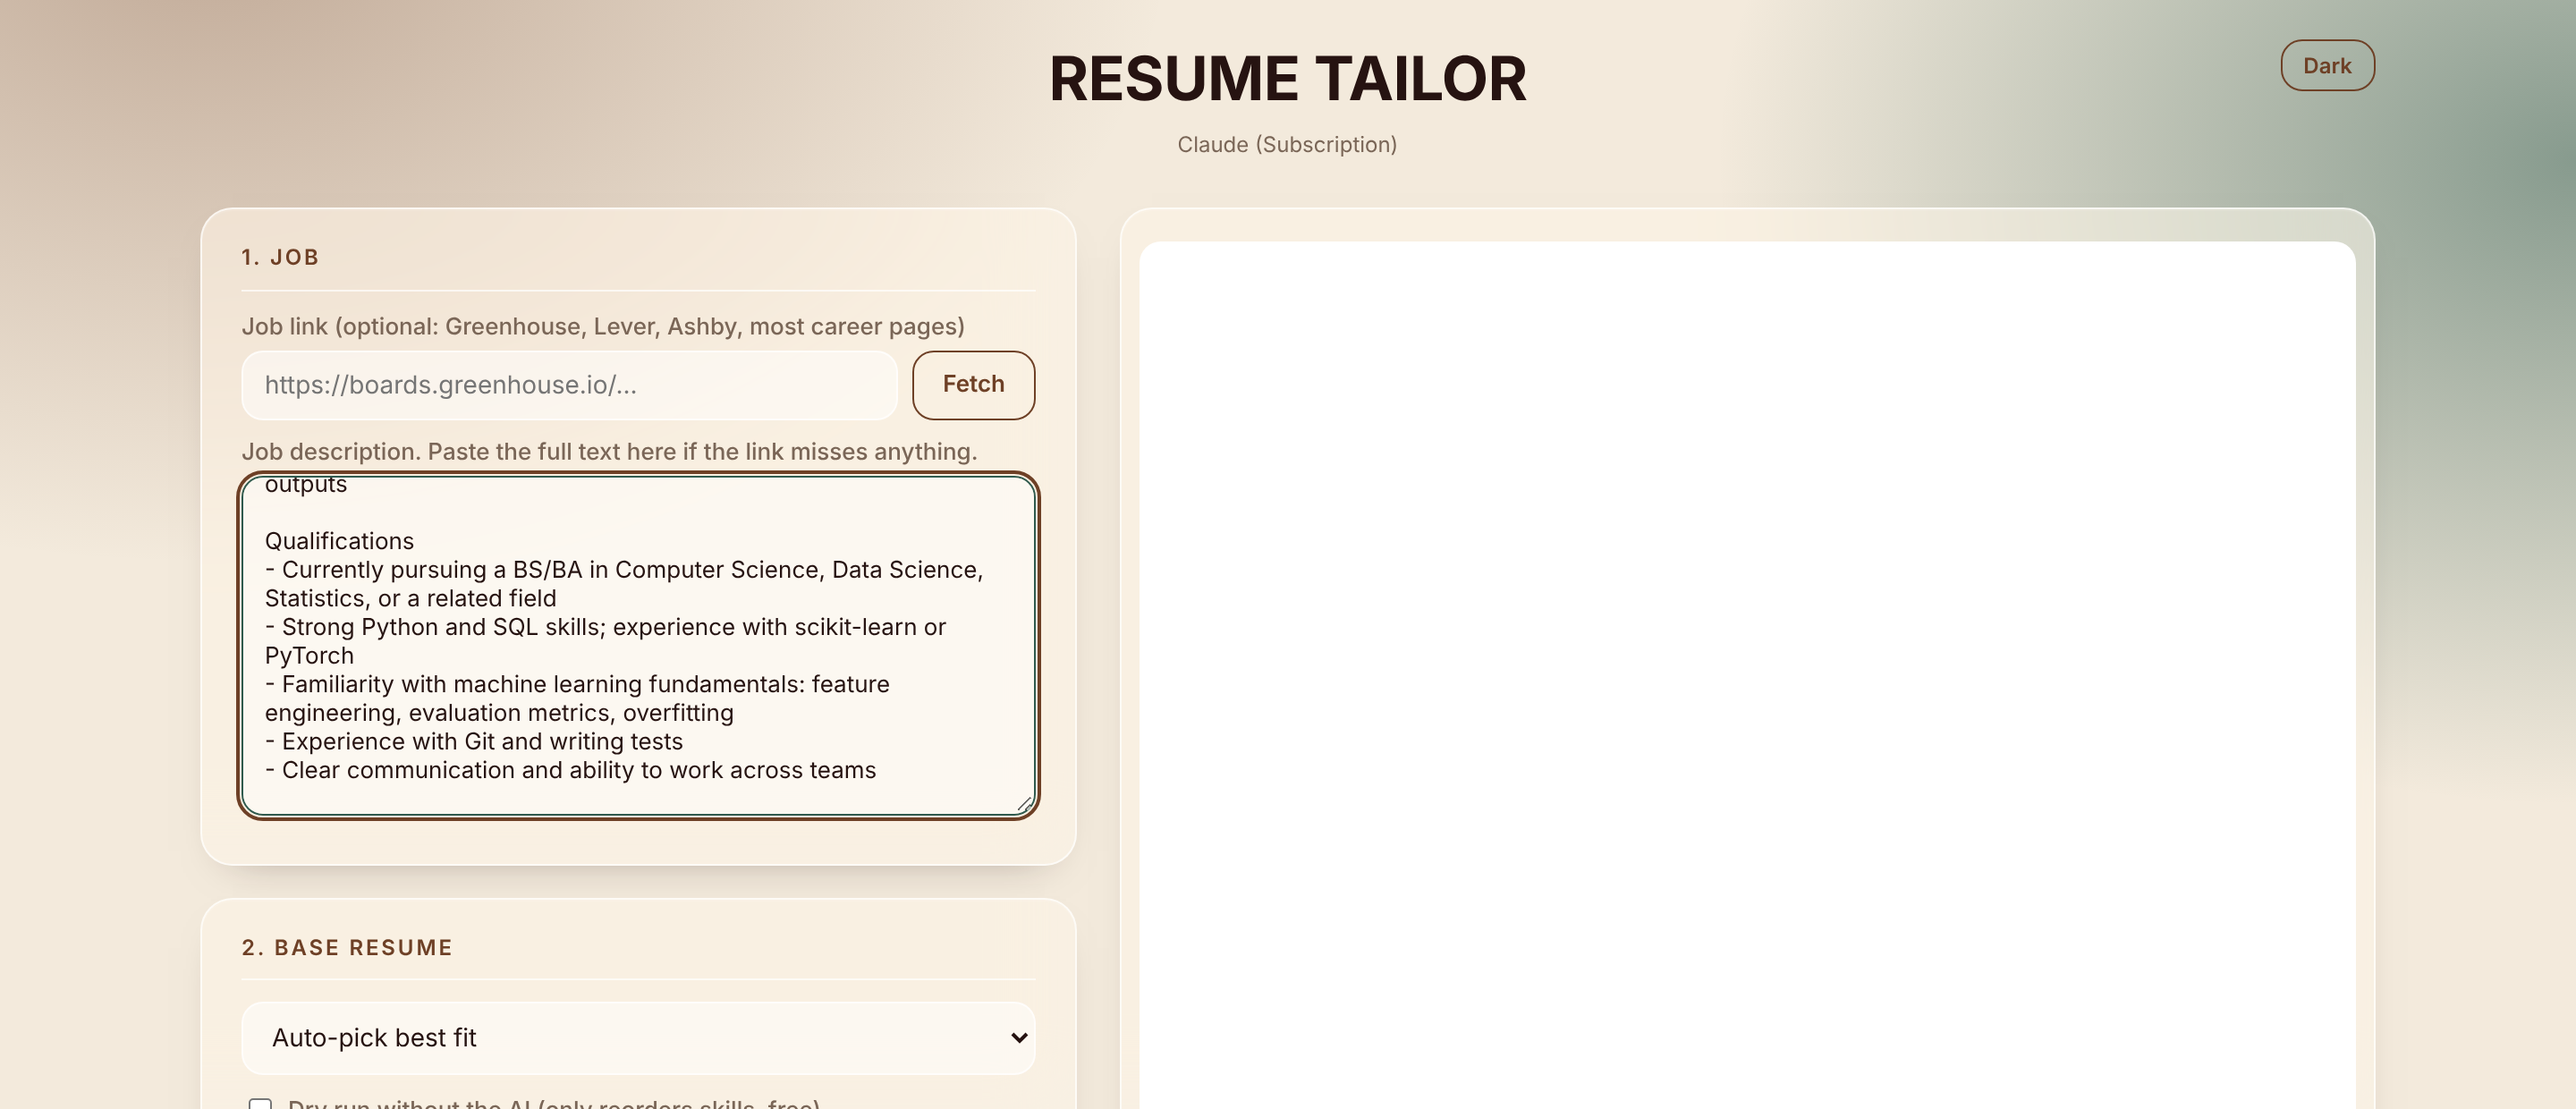
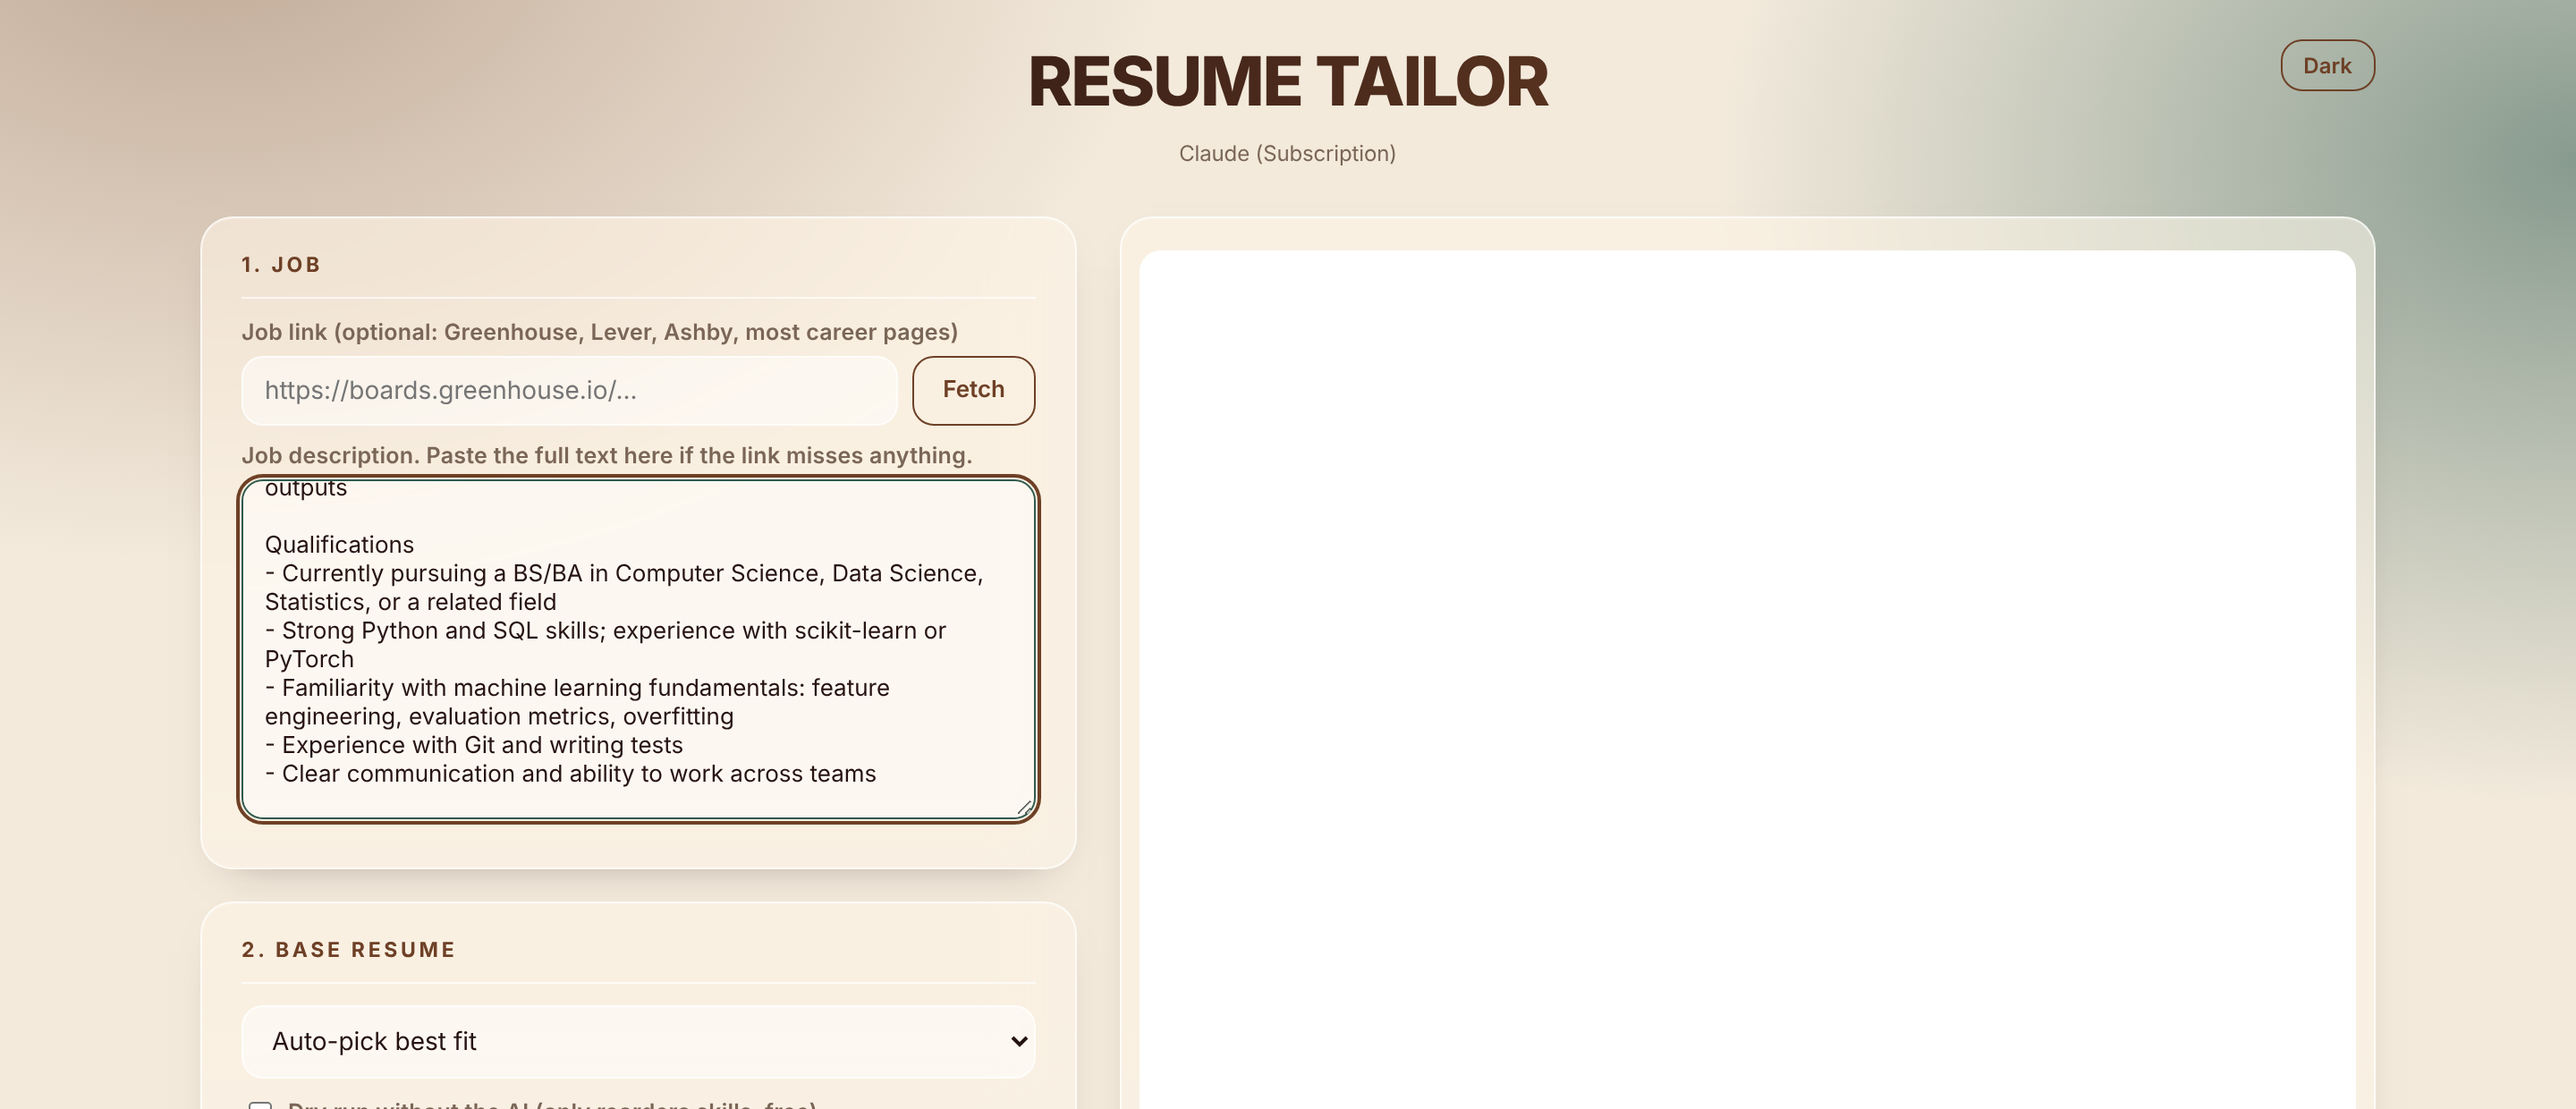
Name Movie Genre models and fix cutoff wording; Plus Jakarta Sans UI; refresh screenshots
Claude-Session: https://claude.ai/code/session_012cXKM8fq69mSZabLRgK94C

diff --git a/static/index.html b/static/index.html
@@ -5,27 +5,27 @@
 <meta name="viewport" content="width=device-width, initial-scale=1">
 <title>Resume Tailor</title>
 <link rel="preconnect" href="https://fonts.googleapis.com">
-<link href="https://fonts.googleapis.com/css2?family=Inter:wght@400;500;600;700&display=swap" rel="stylesheet">
+<link href="https://fonts.googleapis.com/css2?family=Plus+Jakarta+Sans:wght@400;500;600;700;800&display=swap" rel="stylesheet">
 <style>
   /* Palette: espresso #261311, copper #c4895a, parchment #f1e6d6, forest #1f3b34 */
   :root { --bg:#261311; --paper:#321b17; --card:#321b17; --ink:#f1e6d6; --mute:#b5a392; --line:#503630; --acc:#c4895a; --onacc:#261311; --blush:#c4895a; --sage:#2f5a4e; --mist:#3d2420;
           --hover:#d9a074; --okbd:#5f9a85; --warnbd:#c4895a; --ok:#94c7ad; --warn:#e3a574; --bad:#ff9f90; --add:#213a33; --del:#4a2824; --shadow:0 18px 40px -20px rgba(0,0,0,.75);
-          --ui:"Inter",system-ui,-apple-system,"Segoe UI",Roboto,sans-serif; --text:var(--ui); --display:var(--ui); --glass:rgba(50,27,23,.52); --glass-line:rgba(241,230,214,.14); --field:rgba(38,19,17,.45); color-scheme:dark; }
+          --ui:"Plus Jakarta Sans",system-ui,-apple-system,"Segoe UI",Roboto,sans-serif; --text:var(--ui); --display:var(--ui); --glass:rgba(50,27,23,.52); --glass-line:rgba(241,230,214,.14); --field:rgba(38,19,17,.45); color-scheme:dark; }
   @media (prefers-color-scheme: light) { :root:not([data-theme=dark]) { --bg:#f3eadc; --paper:#fbf5ea; --card:#fbf5ea; --ink:#261311; --mute:#7a6657; --line:#d9c8b0; --acc:#6e4026; --onacc:#f7eee0; --blush:#6e4026; --sage:#2f5a4e; --mist:#eadbc6; --hover:#4f2b17; --okbd:#2f5a4e; --warnbd:#b87a4b; --ok:#2f5a4e; --warn:#9a5532; --bad:#9e3a32; --add:#dbe8e1; --del:#f1d9d2; --shadow:0 10px 24px -18px rgba(38,19,17,.5); --glass:rgba(251,245,234,.58); --glass-line:rgba(255,255,255,.7); --field:rgba(255,255,255,.5); color-scheme:light; } }
   :root[data-theme=light] { --bg:#f3eadc; --paper:#fbf5ea; --card:#fbf5ea; --ink:#261311; --mute:#7a6657; --line:#d9c8b0; --acc:#6e4026; --onacc:#f7eee0; --blush:#6e4026; --sage:#2f5a4e; --mist:#eadbc6; --hover:#4f2b17; --okbd:#2f5a4e; --warnbd:#b87a4b; --ok:#2f5a4e; --warn:#9a5532; --bad:#9e3a32; --add:#dbe8e1; --del:#f1d9d2; --shadow:0 10px 24px -18px rgba(38,19,17,.5); --glass:rgba(251,245,234,.58); --glass-line:rgba(255,255,255,.7); --field:rgba(255,255,255,.5); color-scheme:light; }
   * { box-sizing:border-box; }
-  body { margin:0; min-height:100vh; color:var(--ink); font:15px/1.6 var(--text); -webkit-font-smoothing:antialiased; background:
+  body { margin:0; min-height:100vh; color:var(--ink); font:400 15px/1.65 var(--text); letter-spacing:-.005em; font-feature-settings:'ss01','cv11'; -webkit-font-smoothing:antialiased; background:
     radial-gradient(900px 600px at 8% -5%, color-mix(in srgb, var(--acc) 38%, transparent), transparent 60%),
     radial-gradient(800px 600px at 100% 10%, color-mix(in srgb, var(--sage) 55%, transparent), transparent 60%),
     radial-gradient(700px 500px at 50% 110%, color-mix(in srgb, var(--acc) 22%, transparent), transparent 60%), var(--bg); background-attachment:fixed; }
   header { padding:26px 32px 14px; text-align:center; max-width:1280px; margin:0 auto; }
-  h1 { font:700 clamp(24px,3.2vw,34px)/1.1 var(--ui); letter-spacing:-.01em; margin:0; color:var(--ink); }  .sub { color:var(--mute); font:400 13px var(--ui); } #status { display:block; margin-top:10px; font-size:12px; }
+  h1 { font:800 clamp(26px,3.4vw,38px)/1.1 var(--ui); letter-spacing:-.03em; margin:0; color:var(--ink); background:linear-gradient(100deg,var(--ink) 15%,var(--acc) 85%); -webkit-background-clip:text; background-clip:text; -webkit-text-fill-color:transparent; }  .sub { color:var(--mute); font:400 13px var(--ui); } #status { display:block; margin-top:10px; font-size:12px; }
   main { display:grid; grid-template-columns:minmax(340px,490px) 1fr; gap:24px; padding:14px 32px 56px; align-items:start; max-width:1280px; margin:0 auto; }
   @media (max-width:980px) { main { grid-template-columns:1fr; padding:12px 16px 40px; } }
   .card { background:var(--glass); border:1px solid var(--glass-line); border-radius:18px; padding:20px 22px; margin-bottom:18px; box-shadow:var(--shadow), inset 0 1px 0 rgba(255,255,255,.12); position:relative; -webkit-backdrop-filter:blur(22px) saturate(140%); backdrop-filter:blur(22px) saturate(140%); }
-  h2 { font:600 12px/1.2 var(--ui); letter-spacing:.12em; text-transform:uppercase; color:var(--acc); margin:0 0 12px; padding-bottom:10px; border-bottom:1px solid var(--glass-line); }
+  h2 { font:700 11.5px/1.2 var(--ui); letter-spacing:.16em; text-transform:uppercase; color:var(--acc); margin:0 0 12px; padding-bottom:10px; border-bottom:1px solid var(--glass-line); }
   h2 .sub { font-family:var(--ui); text-transform:none; letter-spacing:0; font-size:12px; }
-  label { font:500 13px var(--ui); color:var(--mute); display:block; margin:10px 0 5px; }
+  label { font:600 12.5px var(--ui); letter-spacing:.01em; color:var(--mute); display:block; margin:10px 0 5px; }
   input[type=text], textarea, select { width:100%; padding:10px 12px; border:1px solid var(--glass-line); border-radius:12px; background:var(--field); color:var(--ink); font:14px var(--text); }
   input:focus, textarea:focus, select:focus { outline:2px solid var(--blush); outline-offset:1px; border-color:var(--sage); }
   input[type=checkbox] { accent-color:var(--acc); }

diff --git a/resumes/ml.tex b/resumes/ml.tex
@@ -201,8 +201,8 @@
         \resumeProjectHeading
             {\textbf{Movie Genre Classification (MovieLens/TMDB)} $|$ \emph{Python, PyTorch, scikit-learn, XGBoost, LightGBM} \hfill \href{https://github.com/vdkarthikeya/movie-genre-classification-nlp}{\uline{GitHub}}}
         \resumeItemListStart
-            \resumeItem{Built a multi-label NLP model that predicts a movie's genres from its title and plot summary, trained on \textbf{42K+} films.}
-            \resumeItem{Raised the overall score (Macro F1) from 0.48 to \textbf{0.66} by giving each genre its own cutoff, and found a simple model beat complex ones while training \textbf{12$\times$} faster.}
+            \resumeItem{Built a multi-label NLP model that predicts a movie's genres from its title, tagline, and plot, using MiniLM, MPNet, and e5-large-v2 text embeddings on \textbf{42K+} films.}
+            \resumeItem{Compared Logistic Regression, XGBoost, and LightGBM: Logistic Regression won and trained about \textbf{12$\times$} faster than XGBoost; dropping rare genres and tuning the threshold raised Macro F1 from 0.48 to \textbf{0.66}.}
         \resumeItemListEnd
 
     \resumeSubHeadingListEnd

diff --git a/master_doc.md b/master_doc.md
@@ -154,7 +154,8 @@ Data source (Oct 28, 2026): MovieLens and TMDB (with IMDb metadata fields), not 
 Stack: Python, PyTorch, SentenceTransformers, scikit-learn, XGBoost, LightGBM. Repo: movie-genre-classification-nlp.
 - Multi-label genre prediction on 42K+ MovieLens/TMDB films across 20+ genres. Parsed nested IMDb metadata with regex; engineered log budget and revenue and release-time features.
 - Embedded title, tagline, and overview with MiniLM, MPNet, and e5-large-v2; compared Logistic Regression, XGBoost, and LightGBM.
-- Handled class imbalance with a rare-genre cutoff and per-label threshold tuning. Macro F1 (the primary metric, so rare genres count equally) rose from 0.48 to 0.66; Micro F1 0.68.
+- Handled class imbalance with a genre-frequency cutoff (drop genres under 3,000 films, 20 to 14 genres) and one tuned global decision threshold (0.28). It was NOT per-genre thresholds (those are listed as future work in the repo), so never say "each genre its own cutoff". Macro F1 (the primary metric, so rare genres count equally) rose from 0.48 to 0.66; Micro F1 0.68. Note the label set shrank, so the 0.48 and 0.66 are not on identical labels.
+- Models used: MiniLM (all-MiniLM-L6-v2), MPNet (all-mpnet-base-v2), e5-large-v2 embeddings; Logistic Regression (OneVsRest), XGBoost, LightGBM. Best: e5-large-v2 on title+tagline+overview with Logistic Regression. The model comparison table (LR 1 min, XGBoost 12 min, LightGBM 6 min; Macro F1 0.545, 0.528, 0.525) was run on MiniLM embeddings.
 - Logistic Regression on 1024-dim e5 embeddings beat the boosted trees and trained about 12x faster.
 
 ### Housing Price and Assessment Bias

diff --git a/README.md b/README.md
@@ -157,3 +157,4 @@ Project headings can be either style: linked title with arrow (`\textbf{\href{ur
 - Latest PDFs are hosted in vdkarthikeya.github.io under `resumes/`.
 
 - UI refresh: glass look, one font family, same palette. Movie Genre project now named with its data source (MovieLens/TMDB).
+- Movie Genre bullets now name the models (MiniLM, MPNet, e5-large-v2 embeddings; Logistic Regression, XGBoost, LightGBM) and no longer claim per-genre cutoffs, which the project did not use. UI font changed to Plus Jakarta Sans with a gradient title.
